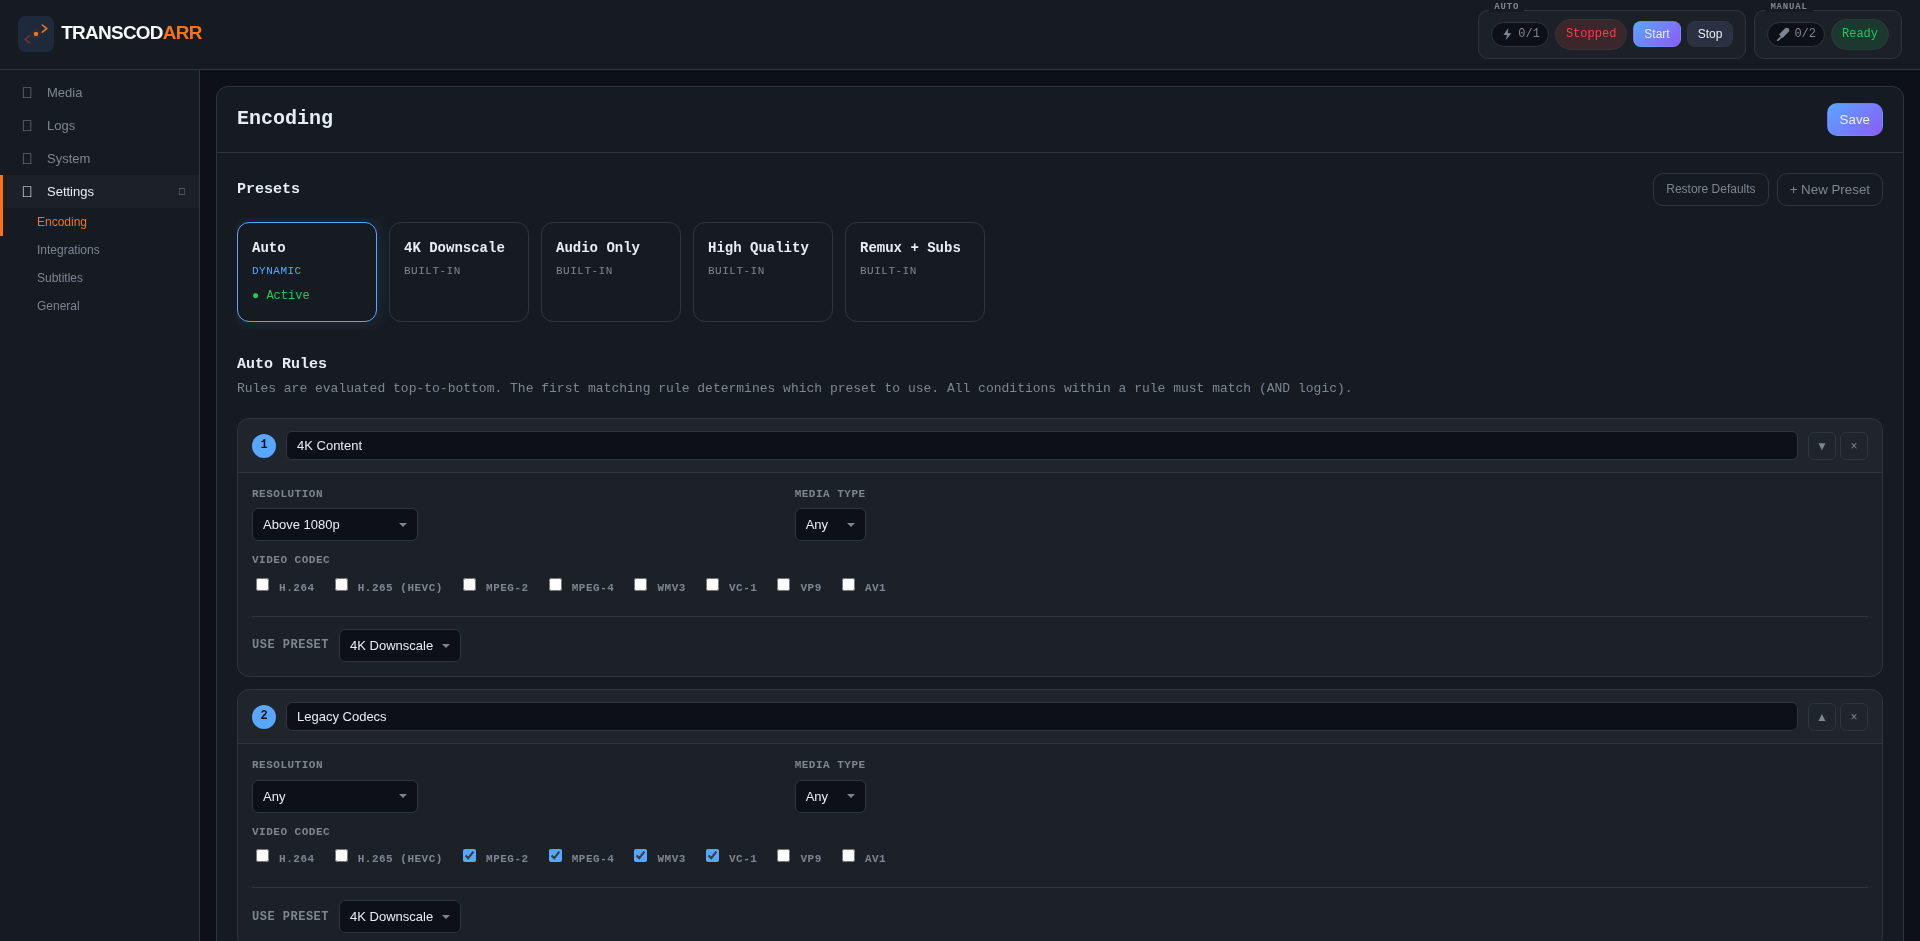
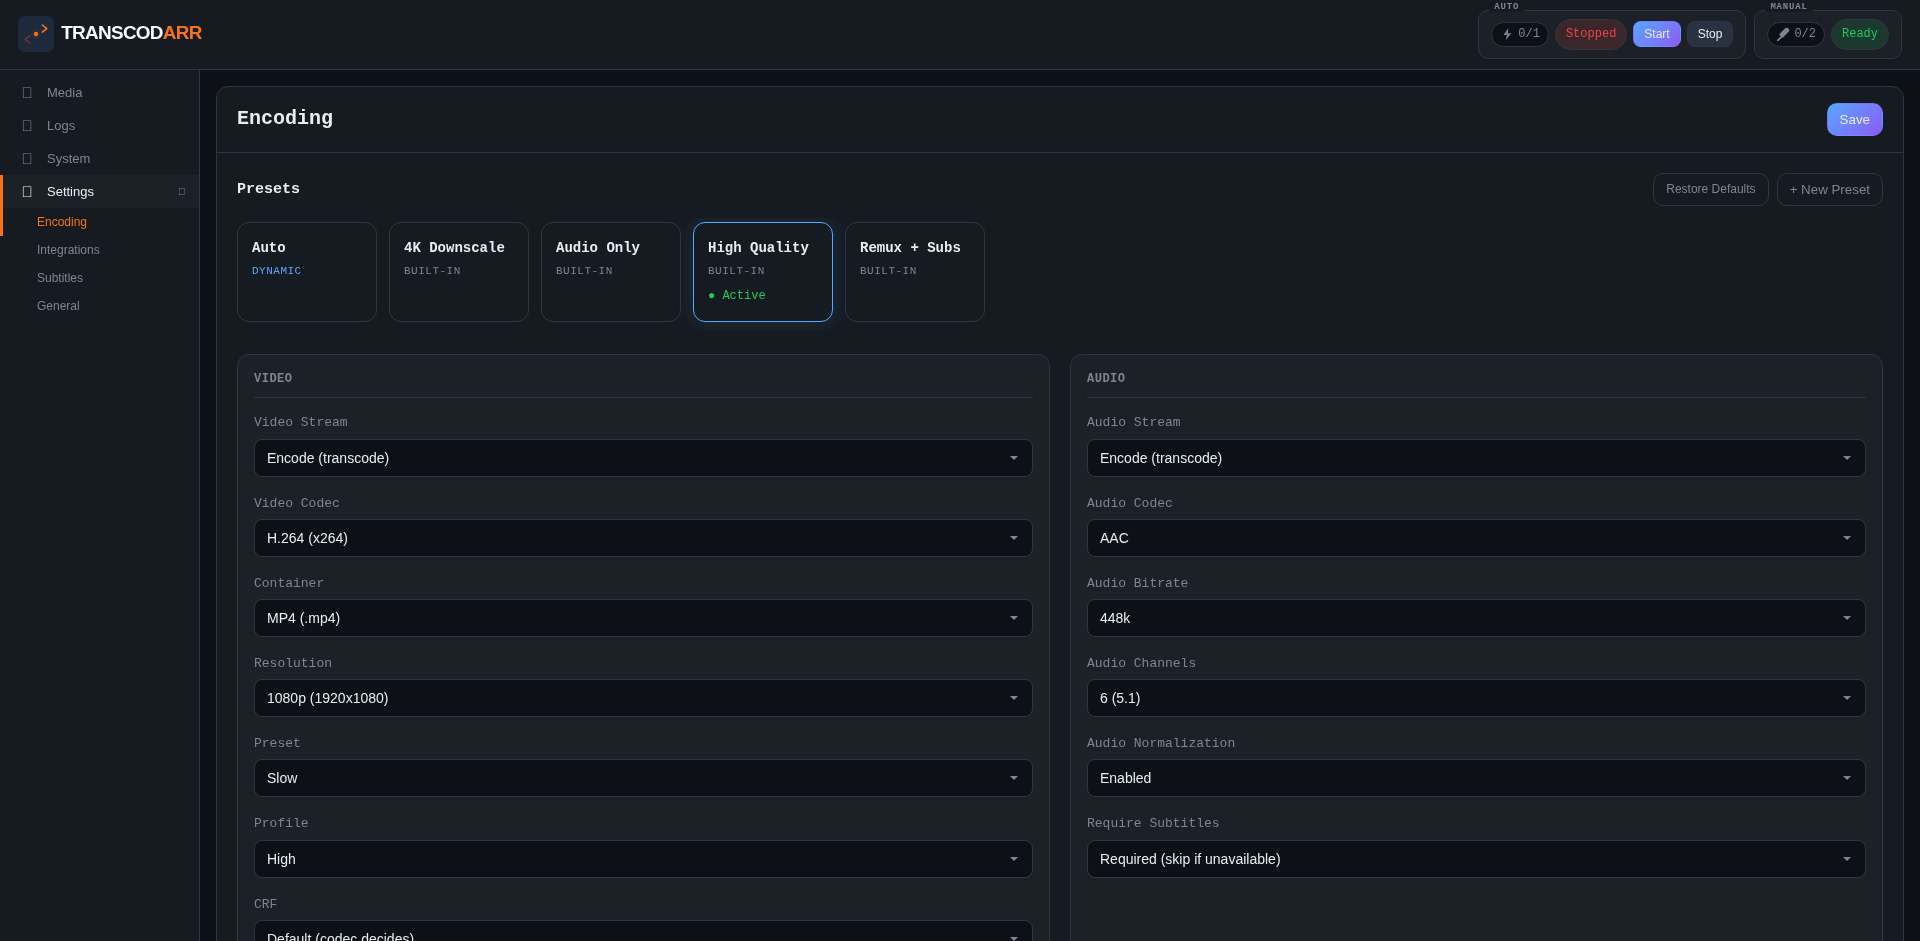
Polish README: contextual screenshot placement, captions, updated API table

diff --git a/README.md b/README.md
@@ -4,7 +4,8 @@ Automated video transcoding orchestrator for the *arr ecosystem. Watches for new
 
 Built for homelabbers who want their entire library in a consistent, streaming-friendly format without manual intervention.
 
-![Media Movies Table](screenshots/screenshot-1.png)
+![Movies tile view — browse, filter, and bulk-action your library](screenshots/screenshot-1.png)
+*Movies library in tile view — switch between tile and table layouts, infinite-scroll pagination, server-side filter and sort.*
 
 ## What It Does
 
@@ -40,7 +41,8 @@ Download Client ──► Watch Folder ──► Transcodarr ──► Output Li
 - Real-time progress tracking with percentage and file size
 - Output verification (duration, streams, file size sanity checks)
 
-![Encoding Preset Settings](screenshots/screenshot-8.PNG)
+![High Quality preset — codec, container, resolution, audio settings](screenshots/screenshot-8.PNG)
+*Each preset exposes the full encoder dial-set: video codec, container, resolution, FFmpeg preset, profile, CRF, and the matching audio chain.*
 
 **Subtitles**
 - Multi-provider fetching: OpenSubtitles.com, Podnapisi, Addic7ed
@@ -65,9 +67,11 @@ Download Client ──► Watch Folder ──► Transcodarr ──► Output Li
 - Live log viewer
 - Connection testing for Radarr/Sonarr
 
-![Media TV Table](screenshots/screenshot-2.png)
+![TV Shows in table view — sortable columns, bulk actions, status badges](screenshots/screenshot-2.png)
+*TV episode browser. Same library, different layout — table view shows episode codes, resolution, size, and status at a glance.*
 
-![Media Enlarged](screenshots/screenshot-3.png)
+![Item detail modal — codecs, bitrates, runtime, transcode history](screenshots/screenshot-3.png)
+*Click any title to inspect the full media metadata, file path, and transcode history.*
 
 ## Quick Start
 
@@ -136,10 +140,6 @@ docker compose -f docker-compose.reencode.yml up -d --build
 
 The watchdog is disabled in this mode. Use the web UI to browse your library and trigger batch re-encodes manually. Files are processed in-place — copied to temp, transcoded, then the original is replaced.
 
-![Auto Preset Rules](screenshots/screenshot-4.png)
-
-![Connections Settings](screenshots/screenshot-5.png)
-
 ## Configuration
 
 All runtime settings are stored in PostgreSQL and configurable through the UI. The app reads settings with this priority:
@@ -178,6 +178,9 @@ Default rules:
 | Legacy Codecs | codec in [mpeg2, mpeg4, wmv3, vc1] | 4K Downscale |
 | *Fallback* | *(no match)* | Audio Only |
 
+![Auto preset rule editor — match by resolution, codec, media type](screenshots/screenshot-4.png)
+*Build rules visually: select a resolution range and codec set, pick a target preset. The first matching rule wins; the fallback handles everything else.*
+
 ### Worker Pool
 
 | Setting | Default | Description |
@@ -187,7 +190,8 @@ Default rules:
 
 Both pools can be resized live from the UI without restarting.
 
-![Systems Usage Logging](screenshots/screenshot-6.png)
+![System view — CPU, memory, output storage, and 90-day storage trend](screenshots/screenshot-6.png)
+*Live CPU/memory gauges with 24-hour history, current output disk usage, and a long-term storage trend chart so you can see your library grow.*
 
 ### Integration Settings
 
@@ -199,6 +203,9 @@ Both pools can be resized live from the UI without restarting.
 
 Path remapping (`PATH_FROM`/`PATH_TO`) translates container paths to Radarr/Sonarr's view of the filesystem.
 
+![Integrations panel — connection status per service](screenshots/screenshot-5.png)
+*Each integration shows its live connection state: Connected, Configured (URL+key set, not test-pinged), or Not Configured.*
+
 ### Subtitle Providers
 
 | Provider | Auth Required | Cooldown | Notes |
@@ -209,7 +216,8 @@ Path remapping (`PATH_FROM`/`PATH_TO`) translates container paths to Radarr/Sona
 
 Provider order is configurable. Accounts rotate round-robin to distribute rate limits.
 
-![Subtitles Settings](screenshots/screenshot-7.png)
+![Subtitle providers — multi-account support, per-provider toggles](screenshots/screenshot-7.png)
+*Add multiple accounts per provider; Transcodarr round-robins through them and respects per-provider cooldowns to avoid rate-limits.*
 
 ## How It Works
 
@@ -271,16 +279,20 @@ All endpoints are under `/api` and require the `X-API-Key` header set to your `A
 | `/api/status` | GET | Running state |
 | `/api/settings` | GET/POST | Read/write all settings |
 | `/api/transcode/manual` | POST | Queue a single file for transcode |
-| `/api/transcode/batch` | POST | Queue multiple files (sequential, returns `batch_id`) |
+| `/api/transcode/batch` | POST | Queue multiple files by path (sequential, returns `batch_id`) |
+| `/api/transcode/batch-by-filter` | POST | Queue every item matching a server-side filter — pairs with the UI's "select all matching" |
 | `/api/transcode/batch/{batch_id}` | GET | List all jobs in a batch |
 | `/api/transcode/batch/{batch_id}/stop` | POST | Stop a batch — kills current file + cancels remaining |
 | `/api/transcode/stop` | POST | Stop a file — also stops its batch if part of one |
 | `/api/transcode/jobs` | GET | List all transcode jobs + progress |
 | `/api/transcode/jobs/{job_id}` | GET | Get a specific job |
 | `/api/transcode/jobs/{job_id}` | DELETE | Cancel a queued job |
-| `/api/media/movies` | GET | List movies (supports `sort`, `sort_order`, `q`, `limit`) |
-| `/api/media/tv` | GET | List TV episodes (supports `sort`, `sort_order`, `q`, `limit`) |
-| `/api/media/pending` | GET | Pending files awaiting transcode (supports `sort`, `sort_order`, `q`, `limit`, `media_type`) |
+| `/api/media/movies` | GET | List movies (supports `q`, `status`, `sort`, `sort_order`, `page`, `page_size`) |
+| `/api/media/tv` | GET | List TV episodes (same query params as movies) |
+| `/api/media/pending` | GET | Pending files awaiting transcode (`q`, `sort`, `sort_order`, `limit`, `media_type`) |
+| `/api/media/ignore` | POST | Toggle/add/remove ignore-list entry by path |
+| `/api/media/ignore-by-filter` | POST | Bulk-ignore every pending item matching a filter |
+| `/api/media/output-by-filter` | POST | Bulk-delete output files matching a filter (companion files included) |
 | `/api/subtitles/search` | POST | Manually trigger subtitle search |
 | `/api/system/stats` | GET | CPU/RAM/disk usage + 24h history |
 | `/api/connections` | GET | Integration connection status |
@@ -288,6 +300,10 @@ All endpoints are under `/api` and require the `X-API-Key` header set to your `A
 | `/api/webhook/sonarr` | POST | Sonarr post-import webhook |
 | `/api/workers/status` | GET | Worker pool state |
 | `/api/logs/tail` | GET | Live log tail (rotation-aware) |
+| `/api/events/status` | GET (SSE) | Live stream of run state + worker pool changes |
+| `/api/events/media` | GET (SSE) | Live stream of in-flight transcode progress + scan state |
+| `/api/events/logs` | GET (SSE) | Live tail of the transcode log |
+| `/api/events/system` | GET (SSE) | Live CPU/RAM/disk metrics |
 
 ### Sorting & Filtering
 
@@ -296,14 +312,19 @@ Media endpoints (`/api/media/movies`, `/api/media/tv`, `/api/media/pending`) sup
 | Parameter | Values | Description |
 |-----------|--------|-------------|
 | `q` | any string | Substring search across all fields |
-| `sort` | `mtime`, `size_gb`, `title`, `year` | Sort field |
+| `status` | `all`, `ready`, `pending`, `processing`, `ignored` | Filter by status bucket |
+| `sort` | `mtime`, `size_gb`, `title`, `year`, `show`, `season`, `episode` | Sort field |
 | `sort_order` | `asc`, `desc` | Sort direction (default: `asc`) |
-| `limit` | integer | Max items returned (applied after sort) |
+| `page` | integer ≥1 | Page number (default: `0` = no pagination) |
+| `page_size` | integer | Items per page (default: `0` = return everything) |
+| `limit` | integer | Legacy max-items cap, applied after sort if pagination is off |
 | `media_type` | `movie`, `tv`, `all` | Filter by type (pending endpoint only) |
 
-Example — get the 50 oldest pending movies by last-modified time:
+Paginated responses include `total_count`, `page`, `page_size`, and `has_more` so clients can build infinite-scroll or "X of Y" displays without a separate count call.
+
+Example — get page 1 of pending movies that are ready, 50 per page, newest first:
 ```
-GET /api/media/pending?media_type=movie&sort=mtime&sort_order=asc&limit=50
+GET /api/media/movies?status=ready&sort=mtime&sort_order=desc&page=1&page_size=50
 ```
 
 ### Batch Transcoding
@@ -366,7 +387,9 @@ These are rough guidelines — actual usage depends on codec, resolution, and so
 
 - **Backend**: Python 3.11, FastAPI, Uvicorn
 - **Frontend**: Vanilla JavaScript (single-page app, no build step)
-- **Database**: PostgreSQL (runtime settings, transcode history, media metadata)
+- **Database**: PostgreSQL (runtime settings, transcode history, media cache, metadata)
+- **Live updates**: Server-Sent Events (SSE) for in-flight progress, scan state, and system metrics
+- **Pagination**: Server-side filter / sort / paginate with infinite-scroll on the frontend
 - **Transcoding**: FFmpeg with progress streaming
 - **Subtitles**: Subliminal + ffsubsync
 - **File Monitoring**: Python watchdog
